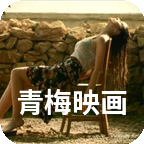
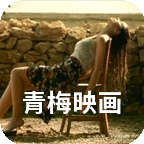
test

Changed region(s): [[0.1111, 0.6111, 0.8889, 0.8056]]

diff --git a/icon_maker.py b/icon_maker.py
@@ -20,7 +20,7 @@ def process_images(
     output_dir: Path,
     text: str,
     font_path: str = "NotoSansCJKtc-Bold.ttf",
-    font_size_ratio: float = 0.20,   # 字号 ≈ 图宽 × 0.22，可按需调
+    font_size_ratio: float = 0.18,   # 字号 ≈ 图宽 × 0.22，可按需调
     padding_ratio: float = 0.25,     # 底部留白比例
     corner_radius: int = 20,
 ):
